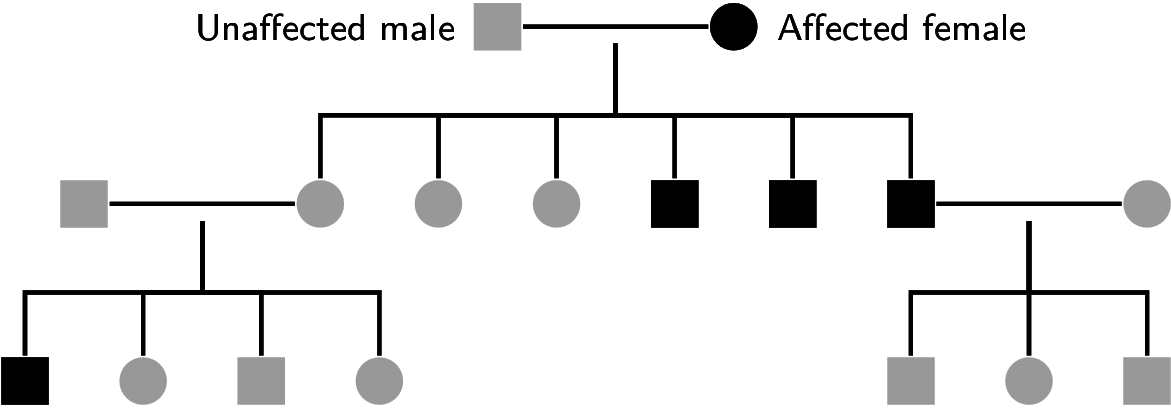
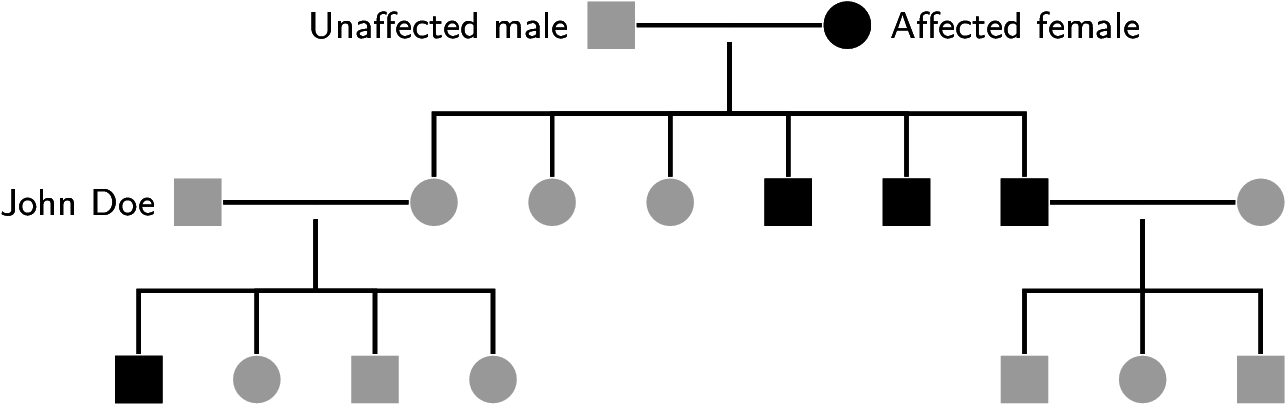
Changing pedigrees for exam 1.

diff --git a/exams/images/pedigree-xlinked-recessive.tex b/exams/images/pedigree-xlinked-recessive.tex
@@ -60,7 +60,7 @@
         \node at(G1X1){}
             [edge from parent fork down,sibling distance=10mm, level distance=15mm]
             child{node[female]{}
-                child[mate,mleft]{coordinate(G2X1) child{node[male]{}}}
+                child[mate,mleft]{coordinate(G2X1) child{node[male,label=left: {John Doe}]{}}}
             }
             child{node[female]{}}
             child{node[female]{}}
@@ -106,7 +106,7 @@
             child{node[female]{}}
             child{node[female]{}}
             child{node[female]{}
-                child[mate,mright]{coordinate(G2X2) child{node(G2F3)[male]{}}}
+                child[mate,mright]{coordinate(G2X2) child{node(G2F3)[male,label=right: {John Doe}]{}}}
             }
         ;
         % 3rd Generation
